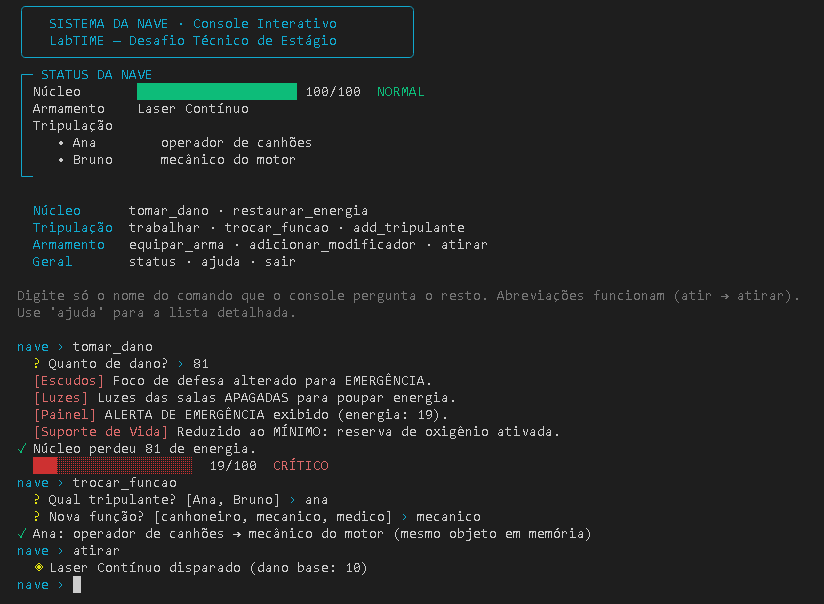
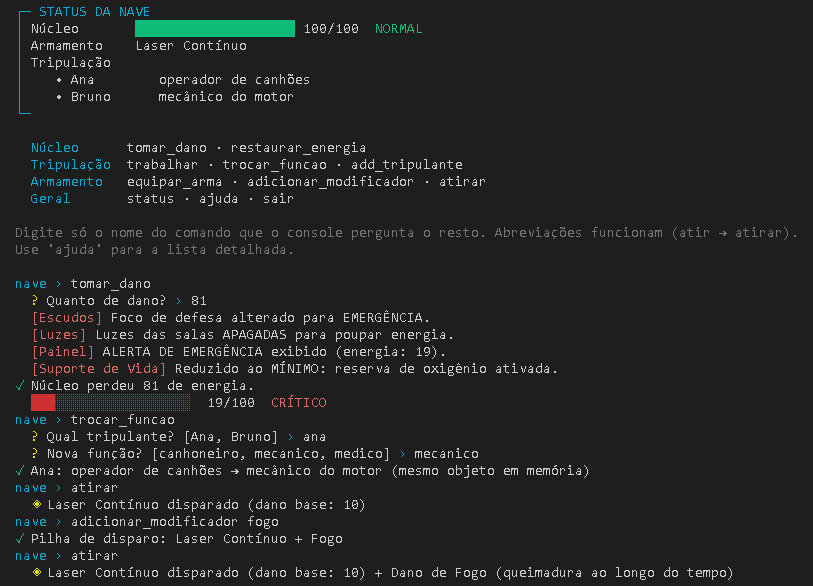
Atualiza captura da sessao com o disparo antes e depois do modificador

diff --git a/README.md b/README.md
@@ -166,18 +166,26 @@ energia cheia em 100/100 NORMAL, o Laser Contínuo equipado, os tripulantes Ana 
 Bruno com suas funções, e o resumo dos comandos agrupados por
 sistema.](docs/console-inicial.png)
 
-Uma sessão real exercitando os tickets — repare que o dano derruba a energia
-abaixo do limiar e **os quatro sistemas de bordo reagem sozinhos**, sem que o
-núcleo chame nenhum deles:
+Uma sessão real exercitando os três tickets:
 
-![Sessão no console: o comando tomar_dano com 81 de dano faz Escudos, Luzes,
-Painel e Suporte de Vida emitirem alertas em vermelho; a barra de energia fica
-vermelha em 19/100 CRÍTICO; em seguida trocar_funcao muda Ana de operadora de
-canhões para mecânica do motor, confirmando que é o mesmo objeto em memória; por
-fim atirar dispara o Laser Contínuo.](docs/console-sessao.png)
+![Sessão no console. Ticket 1: tomar_dano com 81 de dano faz Escudos, Luzes,
+Painel e Suporte de Vida emitirem alertas em vermelho, e a barra de energia fica
+vermelha em 19/100 CRÍTICO. Ticket 2: trocar_funcao muda Ana de operadora de
+canhões para mecânica do motor, confirmando que é o mesmo objeto em memória.
+Ticket 3: atirar dispara o Laser Contínuo com dano base 10; depois de
+adicionar_modificador fogo, a pilha vira Laser Contínuo mais Fogo e o mesmo
+comando atirar passa a incluir o Dano de Fogo.](docs/console-sessao.png)
 
-O print também mostra o modo guiado: quando o comando é digitado sem argumentos,
-o console pergunta o que falta e lista as opções válidas.
+Três coisas que o print evidencia:
+
+- **Ticket 1** — os quatro sistemas de bordo reagem sozinhos ao cruzar o limiar;
+  o núcleo não chama nenhum deles.
+- **Ticket 3** — o mesmo comando `atirar` aparece duas vezes, antes e depois do
+  modificador. A diferença entre as duas saídas é o efeito acoplado pelo decorator
+  em tempo de execução, sem troca de arma nem classe nova.
+- **Modo guiado** — comandos digitados sem argumentos fazem o console perguntar o
+  que falta, listando as opções válidas (`[Ana, Bruno]`, `[canhoneiro, mecanico,
+  medico]`).
 
 Para uma amostra em texto — útil para copiar e colar — veja a
 [sessão de exemplo](#sessão-de-exemplo) acima.
